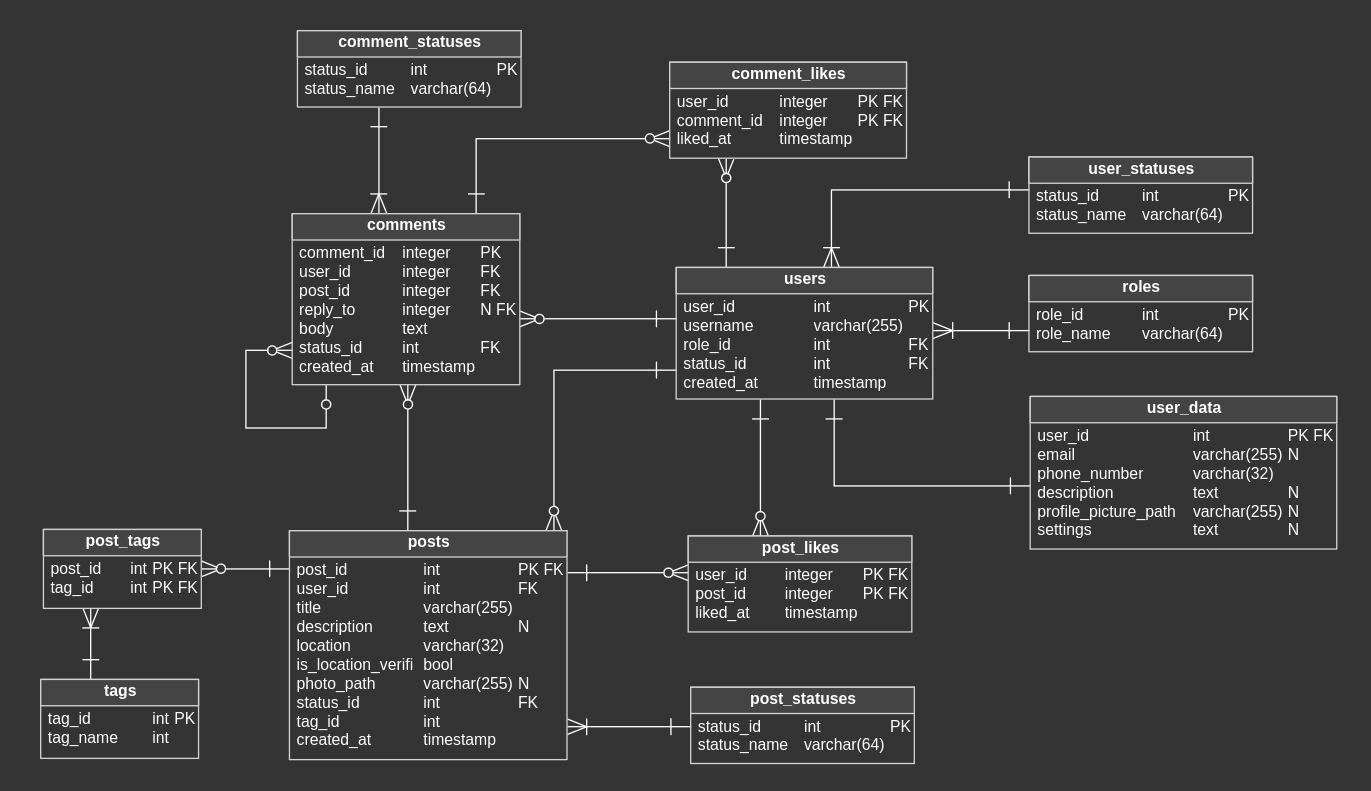
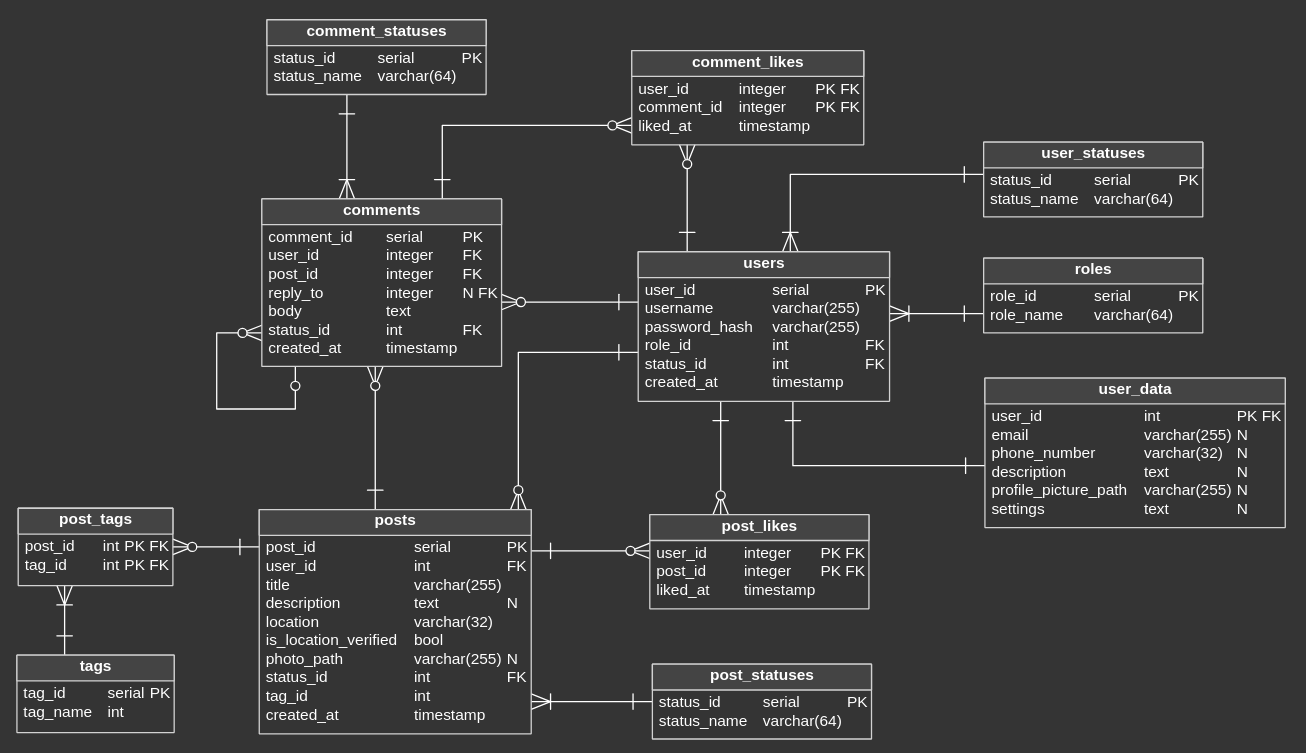
Add script for convenient database resetting, fix schema

Changed region(s): [[0.0, 0.0305, 0.9188, 1.0], [0.6126, 0.4887, 0.9801, 0.7025], [0.0, 0.8247, 0.1531, 0.9774]]

diff --git a/backend/src/main.rs b/backend/src/main.rs
@@ -1,12 +1,15 @@
 use actix_web::{get, middleware::Logger, post, web, App, HttpResponse, HttpServer, Responder};
+use database::DatabaseConnection;
 use env_logger::Env;
 use jwt::{create_access_token, create_refresh_token, PermissionLevel};
-use database::DatabaseConnection;
 use serde::Deserialize;
 use serde_json::json;
-use std::env;
-mod jwt;
+use std::{
+    env::{self},
+    process::Command,
+};
 mod database;
+mod jwt;
 
 #[derive(Deserialize, Debug)]
 struct LoginRequest {
@@ -53,6 +56,7 @@ async fn login(request: web::Json<LoginRequest>) -> impl Responder {
 
 #[actix_web::main]
 async fn main() -> std::io::Result<()> {
+    let args: Vec<String> = env::args().collect();
     let _ = dotenvy::from_filename(".env");
     let port: u16 = env::var("API_PORT")
         .expect("API_PORT environment variable is not set")
@@ -60,12 +64,38 @@ async fn main() -> std::io::Result<()> {
         .expect("Could not parse API_PORT as an int");
     let url: String = env::var("API_URL").expect("API_URL environment variable is not set");
     let db_url: String = env::var("DATABASE_URL").expect("DATABASE_URL environment variable is not set");
+    let db_name: String = env::var("DATABASE_NAME").expect("DATABASE_NAME environment variable is not set");
+    let db_path: String = format!("{db_url}/{db_name}");
 
-    let database = DatabaseConnection::new(&db_url).await.expect("Failed to establish databse connection");
+    if args[1] == "reset-database" {
+        println!("resetting the whole database...");
+        let _ = Command::new("psql")
+            .args([&db_url, "-c", "DROP DATABASE rybocheck"])
+            .status();
+        let _ = Command::new("psql")
+            .args([&db_url, "-c", "CREATE DATABASE rybocheck"])
+            .status();
+        let _ = Command::new("cargo").args(["sqlx", "migrate", "run"]).status();
+        println!("MIGRATE SUCCESSFUL");
+        return Ok(());
+    }
 
-    database.register("admin2", "cool-hash", None, Some("+48 512123456")).await.expect("Query error");
-    database.register("admin4", "cool-hash", None, Some("+48 512123456")).await.expect("Query error");
-    database.register("test2", "cool-hash", Some("my.email@test.org"), None).await.expect("Query error");
+    let database = DatabaseConnection::new(&db_path)
+        .await
+        .expect("Failed to establish databse connection");
+
+    database
+        .register("admin2", "cool-hash", None, Some("+48 512123456"))
+        .await
+        .expect("Query error");
+    database
+        .register("admin4", "cool-hash", None, Some("+48 512123456"))
+        .await
+        .expect("Query error");
+    database
+        .register("test2", "cool-hash", Some("my.email@test.org"), None)
+        .await
+        .expect("Query error");
 
     env_logger::init_from_env(Env::default().default_filter_or("info"));
 
